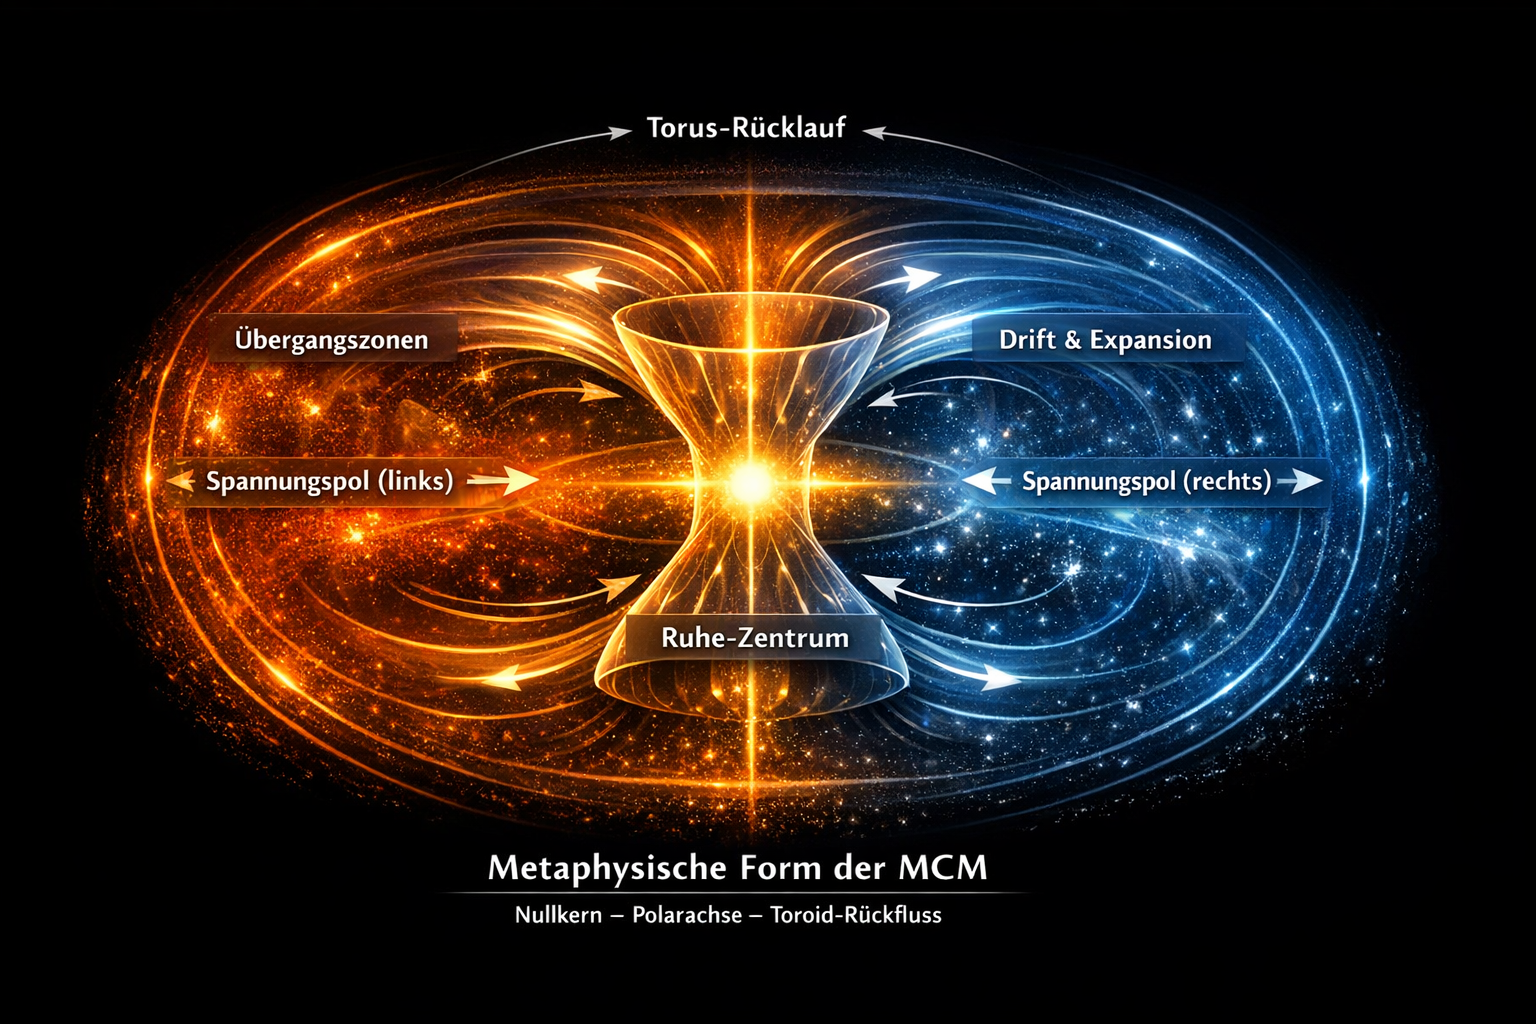
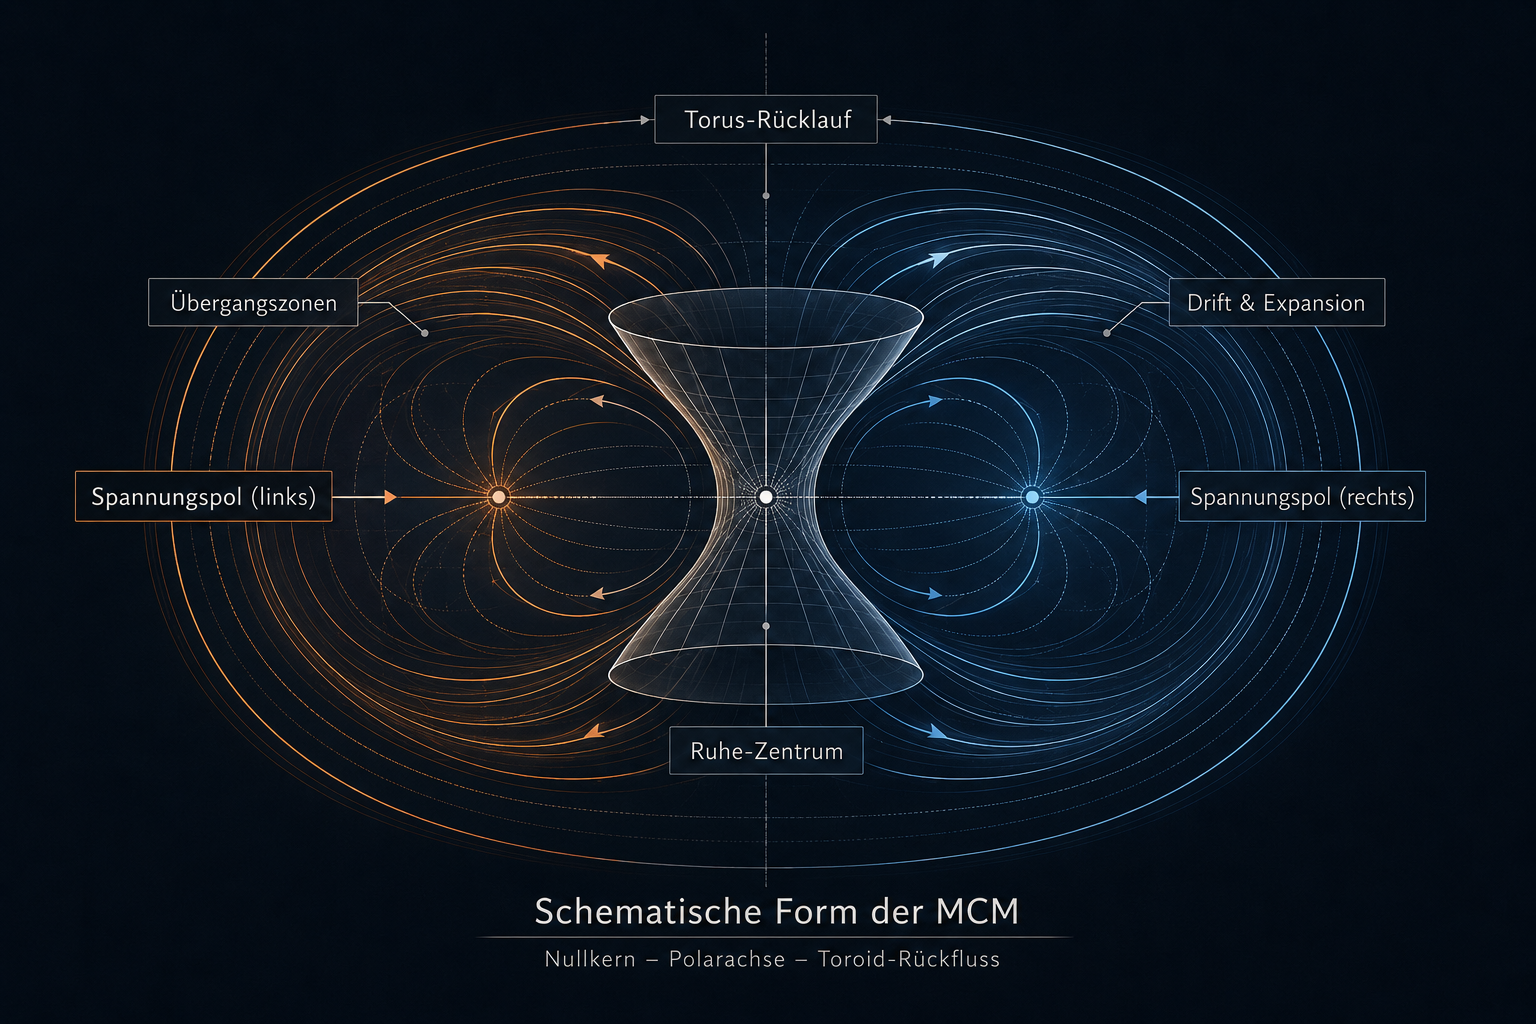
upload

diff --git a/README.md b/README.md
@@ -153,8 +153,7 @@ Die MCM kann rückblickend in Bezug zu ähnlichen Modellfamilien gesetzt werden,
 - **Energy-Based Models**: Energiezustände, Stabilisierung und attraktorähnliches Verhalten
 - **Active Inference / Free Energy Principle**: Selbstorganisation, Regulation und zustandsabhängige Anpassung
 
-Diese Bezüge dienen nur der wissenschaftlichen Einordnung. 
-**Die MCM wurde nicht** aus diesen Ansätzen konstruiert, sondern entwickelte sich als eigenständige Strukturidee. Die nachträgliche Nähe zu solchen Modellen kann als Hinweis verstanden werden, dass ähnliche Grundprobleme berührt werden: Stabilisierung, Abweichung, Rückführung, lokale Wechselwirkung und emergente Ordnungsbildung.
+Diese Bezüge dienen nur der wissenschaftlichen Einordnung. Die MCM wurde *nicht!* aus diesen Ansätzen konstruiert, sondern entwickelte sich als eigenständige Strukturidee. Die nachträgliche Nähe zu solchen Modellen kann als Hinweis verstanden werden, dass ähnliche Grundprobleme berührt werden: Stabilisierung, Abweichung, Rückführung, lokale Wechselwirkung und emergente Ordnungsbildung.
 
 Die Besonderheit der MCM liegt in der Kombination mehrerer Ebenen: einem Zentrum als regulativem Bezugspunkt, einem kontinuierlichen Spannungsraum, einer archetypenfreien energetischen Ebene, einer psychologischen Interpretationsebene und simulationsbasierter Emergenz durch lokale Kopplung, Rauschen, Dichtebildung und Clusterung.
 
